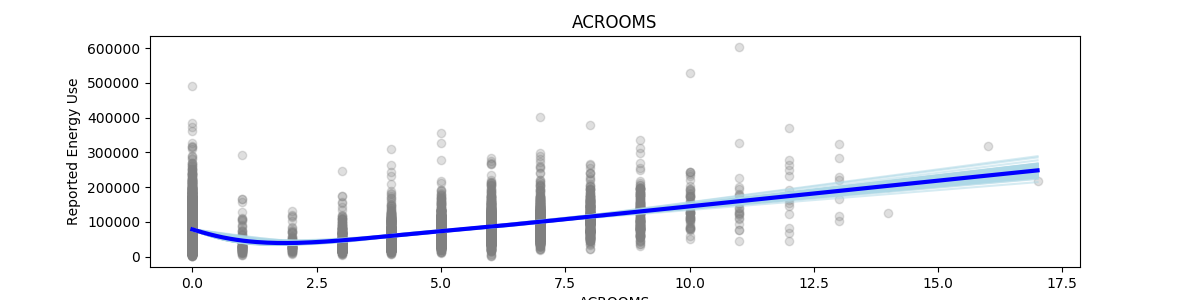
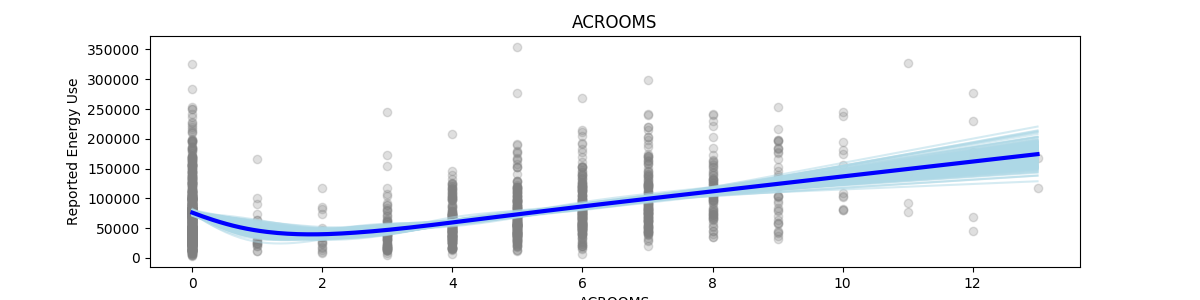
Updated univariate plots to include test split

diff --git a/model.py b/model.py
@@ -140,12 +140,12 @@ def plot_one_univariate(ax, var_name, mask=None):
 
     if mask is None:
         plot_univariate_smooth(ax,
-                               df[var_name].values.reshape(-1, 1),
-                               y, bootstrap=200)
+                               X_test[var_name].values.reshape(-1, 1),
+                               y_test, bootstrap=200)
     else:
         plot_univariate_smooth(ax,
-                               df[var_name].values.reshape(-1, 1),
-                               y, mask=mask, bootstrap=200)
+                               X_test[var_name].values.reshape(-1, 1),
+                               y_test, mask=mask, bootstrap=200)
 
     ax.set_title(var_name)
     plt.ylabel('Reported Energy Use')
